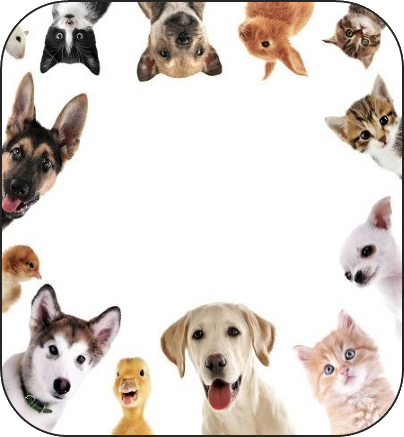
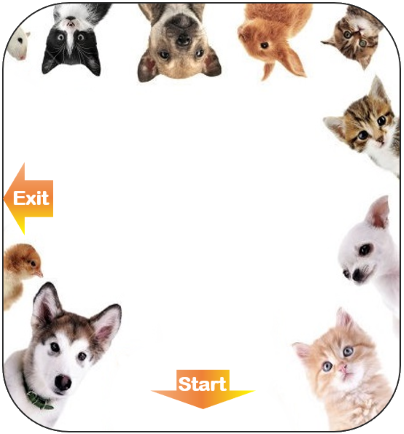
[Lu+Lucy] SWAT Add Exit and Start arrows

Changed region(s): [[0.0, 0.0, 1.0, 1.0], [0.2673, 0.6889, 0.3267, 0.7488]]

diff --git a/client/spec/pages/gameHomePage.spec.js b/client/spec/pages/gameHomePage.spec.js
@@ -25,4 +25,17 @@ describe("GameHomePage", () => {
       expect(page.navigate).toHaveBeenCalledWith("/");
     });
   });
+
+  describe('#rightButtonEvent', () => {
+    it('goes to game page', () => {
+      const props = {
+        navigate: () => { },
+      };
+      const page = new GameHomePage(props);
+      spyOn(page, 'navigate');
+
+      page.rightButtonEvent();
+      expect(page.navigate).toHaveBeenCalledWith('gamePage');
+    });
+  });
 });

diff --git a/client/src/js/routes.js b/client/src/js/routes.js
@@ -1,6 +1,7 @@
 const HomePage = require("./pages/homePage");
 const ContactsPage = require("./pages/contactsPage");
 const GameHomePage = require("./pages/gameHomePage");
+const GamePage = require("./pages/gamePage");
 const TeamPage = require("./pages/teamPage");
 const FourOhFour = require("./pages/404Page");
 const FeedbackPage = require("./pages/feedbackPage");

diff --git a/client/src/js/pages/gameHomePage.js b/client/src/js/pages/gameHomePage.js
@@ -13,6 +13,10 @@ class GameHomePage extends BasePage {
   leftButtonEvent() {
     this.navigate("/");
   }
+
+  rightButtonEvent() {
+    this.navigate('gamePage');
+  }
 }
 
 module.exports = GameHomePage;
